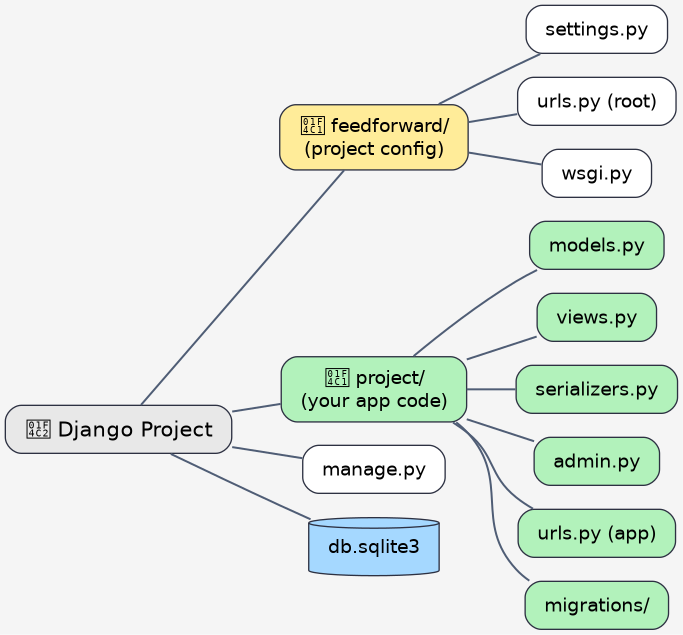
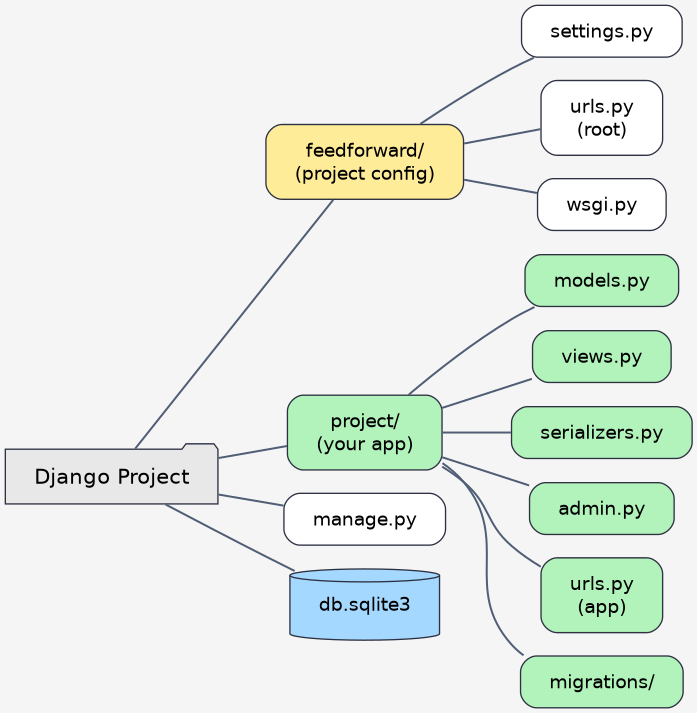
fix: all diagrams landscape with black readable text
- ERD: replace 3 mermaid blocks with PlantUML landscape PNG (925x286)
  showing all fields, types, PK/FK, cardinality, relationship labels
- Data flow: sequence diagram (885x662) with black text, JSON/Python
  transformation shown at serializers.py
- File structure: graphviz LR tree (697x713) color-coded
- All text forced to black for readability on light backgrounds

diff --git a/docs/2026-winter/introduction-to-backend-development-with-django.md b/docs/2026-winter/introduction-to-backend-development-with-django.md
@@ -39,36 +39,7 @@ When a feedback is submitted
 
 Below is the schematics
 
-```mermaid
-erDiagram
-    user {
-        uuid user_id PK
-        string username
-        string email
-        string password
-        datetime created_at
-    }
-    
-    project {
-        uuid project_id PK
-        string name
-        datetime created_at
-        list(user) members FK
-    }
-    
-    feedback {
-        uuid feedback_id PK
-        uuid project_id FK
-        uuid user_id FK
-        string content
-        datetime created_at
-        float(nullable) sentiment_score
-    }
-
-    user ||--o{ feedback : creates
-    project ||--o{ feedback : has
-    user |{--o{ project : works_on
-```
+![FeedForward ERD](./images/feedforward-erd.png)
 
 ## What are APIs and REST-APIs?
 **Application Programming Interface**
@@ -263,36 +234,7 @@ INSTALLED_APPS = [
 ## Creation of a Model for Project
 
 ??? info "Quick Reference: ERD"
-    ```mermaid
-    erDiagram
-        user {
-            uuid user_id PK
-            string username
-            string email
-            string password
-            datetime created_at
-        }
-        
-        project {
-            uuid project_id PK
-            string name
-            datetime created_at
-            list(user) members FK
-        }
-        
-        feedback {
-            uuid feedback_id PK
-            uuid project_id FK
-            uuid user_id FK
-            string content
-            datetime created_at
-            float(nullable) sentiment_score
-        }
-
-        user ||--o{ feedback : creates
-        project ||--o{ feedback : has
-        user |{--o{ project : works_on
-    ```
+    ![FeedForward ERD](./images/feedforward-erd.png)
 
 ???+ example "Ready to Copy Paste"
     ```python
@@ -415,36 +357,7 @@ Now visit the [Admin page](http://localhost:8000/admin) and you'll see the Proje
 ## Creation of a Model for ProjectFeedback
 
 ??? info "Quick Reference: ERD"
-    ```mermaid
-    erDiagram
-        user {
-            uuid user_id PK
-            string username
-            string email
-            string password
-            datetime created_at
-        }
-        
-        project {
-            uuid project_id PK
-            string name
-            datetime created_at
-            list(user) members FK
-        }
-        
-        feedback {
-            uuid feedback_id PK
-            uuid project_id FK
-            uuid user_id FK
-            string content
-            datetime created_at
-            float(nullable) sentiment_score
-        }
-
-        user ||--o{ feedback : creates
-        project ||--o{ feedback : has
-        user |{--o{ project : works_on
-    ```
+    ![FeedForward ERD](./images/feedforward-erd.png)
 
 ??? example "Ready to Copy Paste - `project/models.py`"
     ```python